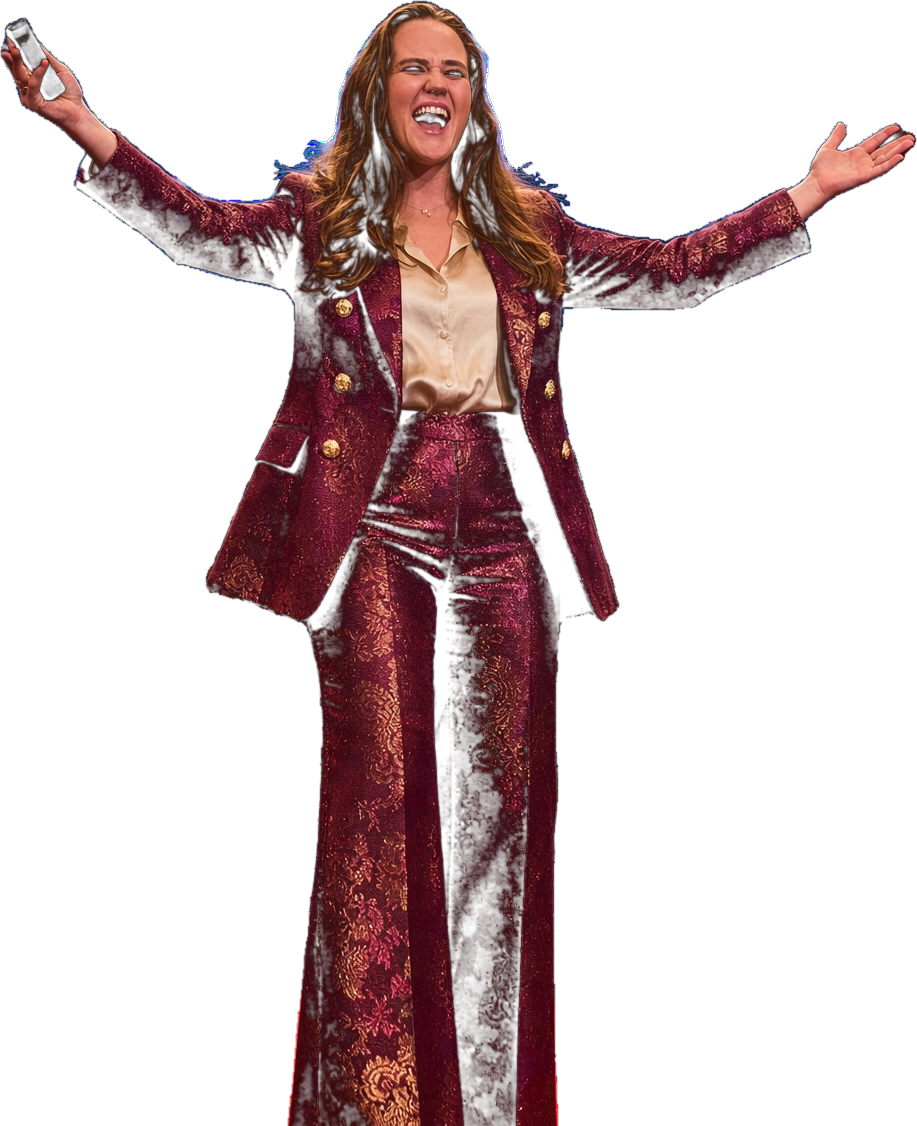
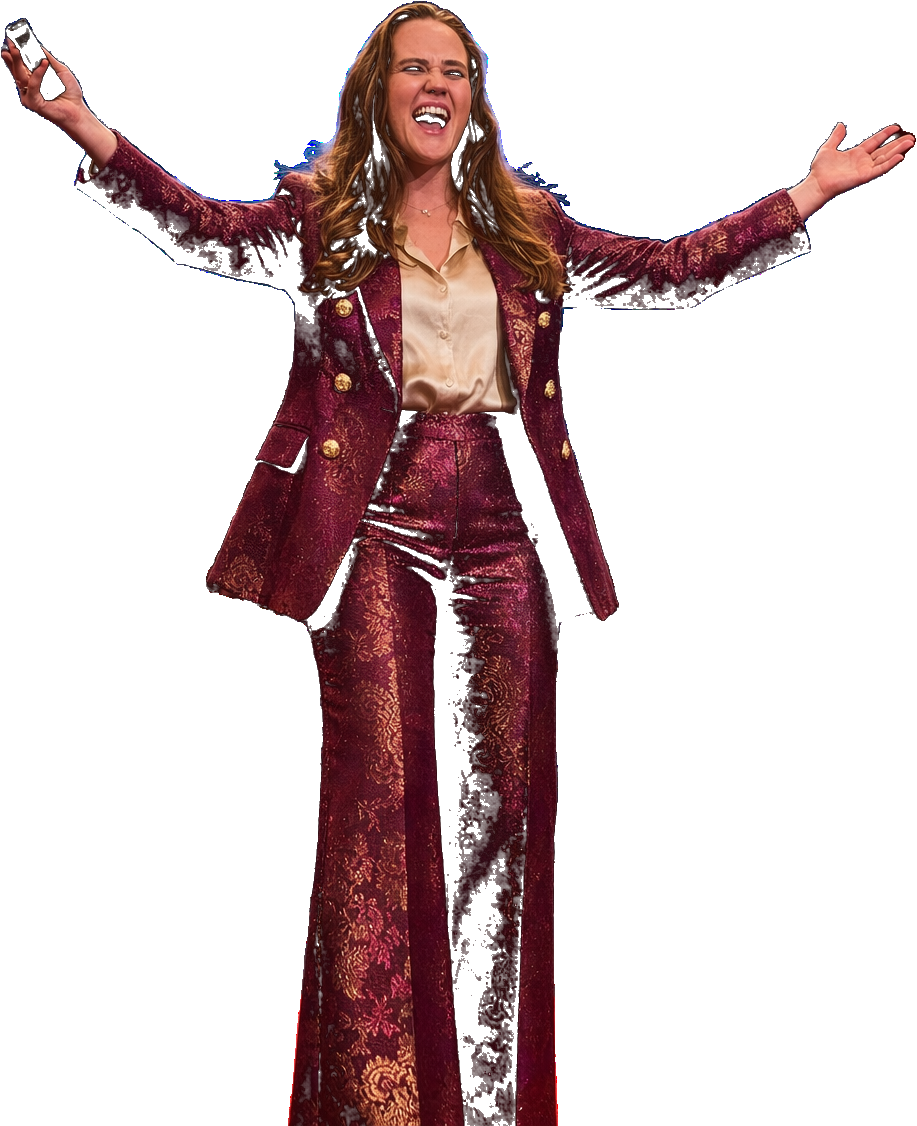
fix: clean photo alpha edges + dark backdrop to block name text bleed-through

diff --git a/index.html b/index.html
@@ -248,6 +248,17 @@ img  { display:block; max-width:100%; }
   z-index: 0;
 }
 
+/* Dark backdrop — sits between name text (z:1) and photo (z:5).
+   Absorbs the name text showing through semi-transparent photo edges. */
+.portal-stage::after {
+  content: '';
+  position: absolute;
+  inset: 0;
+  background: radial-gradient(ellipse 55% 80% at 50% 54%, rgba(14,8,22,.78) 0%, rgba(14,8,22,.4) 50%, transparent 72%);
+  z-index: 3;
+  pointer-events: none;
+}
+
 /* Pulsating glow layer — breathes dramatically */
 .portal-glow {
   position: absolute;
